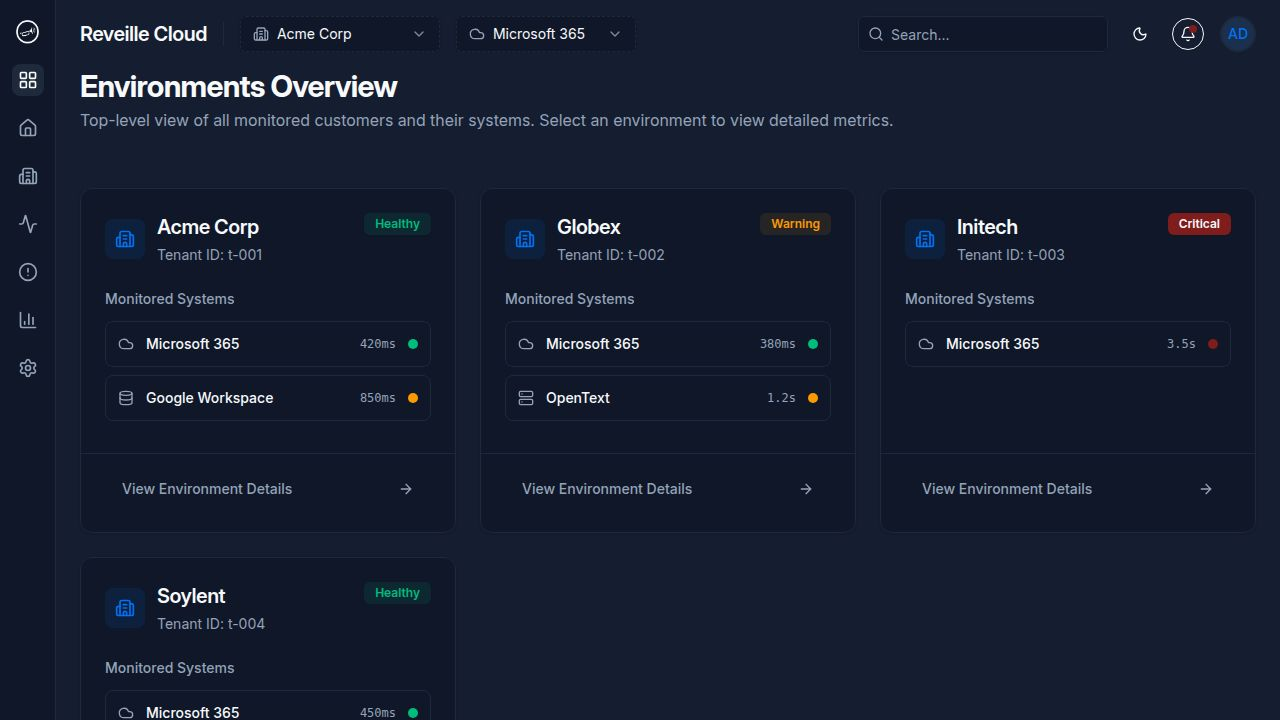
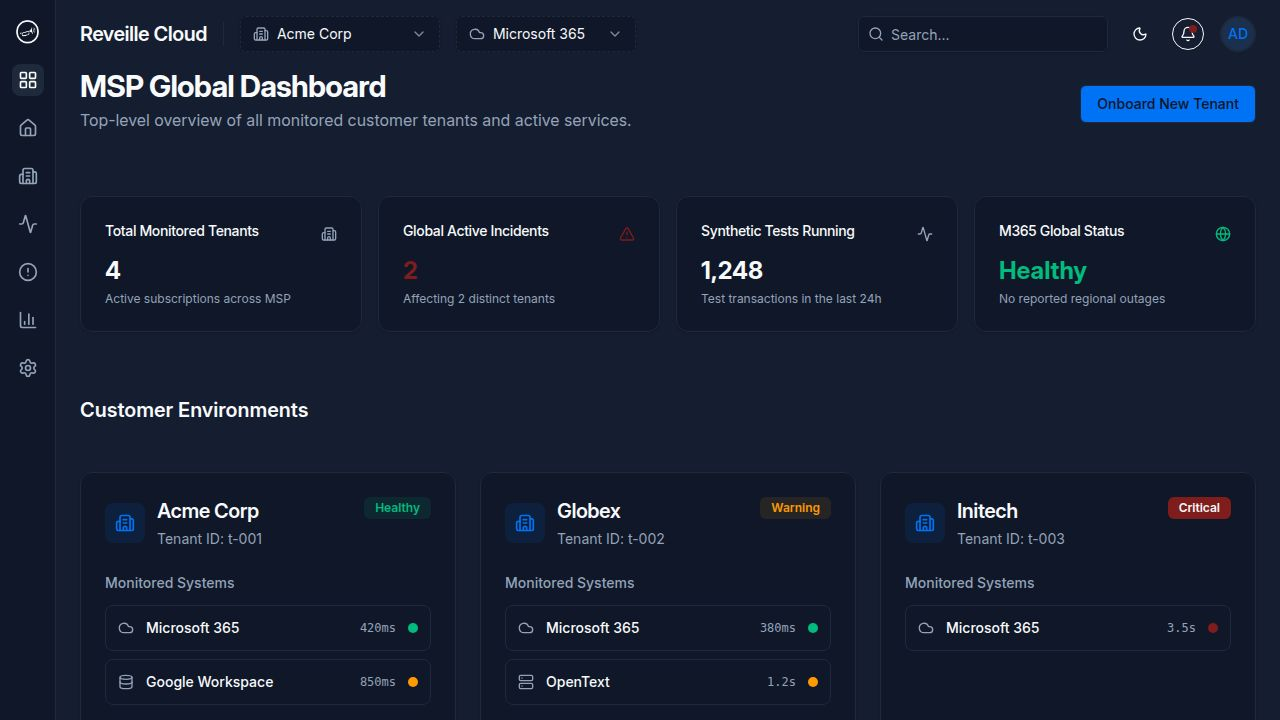
Create the MSP Global Dashboard with aggregated metrics and tenant onboarding
Updates the root page (`/`) to serve as the MSP Global Dashboard. Adds aggregated hero metrics (Total Monitored Tenants, Global Active Incidents, Synthetic Tests Running, M365 Global Status) using Card components and Lucide icons. Includes an "Onboard New Tenant" button linking to `/onboarding`. Refactors the display of individual customer environments below the global metrics.

Replit-Commit-Author: Agent
Replit-Commit-Session-Id: d369ee71-4fa6-4553-b1ac-325e3540190d
Replit-Commit-Checkpoint-Type: full_checkpoint
Replit-Commit-Event-Id: abb60896-376e-497a-a599-a465c298b286
Replit-Commit-Screenshot-Url: https://storage.googleapis.com/screenshot-production-us-central1/a0f16eec-578b-48d3-9621-63b44943948e/d369ee71-4fa6-4553-b1ac-325e3540190d/CT6PmTm
Replit-Helium-Checkpoint-Created: true

diff --git a/client/src/pages/Environments.tsx b/client/src/pages/Environments.tsx
@@ -2,7 +2,7 @@ import { Shell } from "@/components/layout/Shell";
 import { Card, CardContent, CardDescription, CardHeader, CardTitle, CardFooter } from "@/components/ui/card";
 import { Badge } from "@/components/ui/badge";
 import { Button } from "@/components/ui/button";
-import { Building2, Cloud, Server, Database, ArrowRight } from "lucide-react";
+import { Building2, Cloud, Server, Database, ArrowRight, Activity, AlertTriangle, Globe } from "lucide-react";
 import { Link } from "wouter";
 
 const environments = [
@@ -49,13 +49,70 @@ export default function Environments() {
     <Shell>
       <div className="flex items-center justify-between space-y-2 mb-6">
         <div>
-          <h2 className="text-3xl font-bold tracking-tight">Environments Overview</h2>
+          <h2 className="text-3xl font-bold tracking-tight">MSP Global Dashboard</h2>
           <p className="text-muted-foreground mt-1">
-            Top-level view of all monitored customers and their systems. Select an environment to view detailed metrics.
+            Top-level overview of all monitored customer tenants and active services.
           </p>
+        </div>
+        <div className="flex items-center space-x-2">
+          <Link href="/onboarding">
+            <Button>Onboard New Tenant</Button>
+          </Link>
         </div>
       </div>
 
+      <div className="grid gap-4 md:grid-cols-2 lg:grid-cols-4 mb-8">
+        <Card>
+          <CardHeader className="flex flex-row items-center justify-between pb-2">
+            <CardTitle className="text-sm font-medium">Total Monitored Tenants</CardTitle>
+            <Building2 className="h-4 w-4 text-muted-foreground" />
+          </CardHeader>
+          <CardContent>
+            <div className="text-2xl font-bold">4</div>
+            <p className="text-xs text-muted-foreground mt-1">
+              Active subscriptions across MSP
+            </p>
+          </CardContent>
+        </Card>
+        <Card>
+          <CardHeader className="flex flex-row items-center justify-between pb-2">
+            <CardTitle className="text-sm font-medium">Global Active Incidents</CardTitle>
+            <AlertTriangle className="h-4 w-4 text-destructive" />
+          </CardHeader>
+          <CardContent>
+            <div className="text-2xl font-bold text-destructive">2</div>
+            <p className="text-xs text-muted-foreground mt-1">
+              Affecting 2 distinct tenants
+            </p>
+          </CardContent>
+        </Card>
+        <Card>
+          <CardHeader className="flex flex-row items-center justify-between pb-2">
+            <CardTitle className="text-sm font-medium">Synthetic Tests Running</CardTitle>
+            <Activity className="h-4 w-4 text-muted-foreground" />
+          </CardHeader>
+          <CardContent>
+            <div className="text-2xl font-bold">1,248</div>
+            <p className="text-xs text-muted-foreground mt-1">
+              Test transactions in the last 24h
+            </p>
+          </CardContent>
+        </Card>
+        <Card>
+          <CardHeader className="flex flex-row items-center justify-between pb-2">
+            <CardTitle className="text-sm font-medium">M365 Global Status</CardTitle>
+            <Globe className="h-4 w-4 text-emerald-500" />
+          </CardHeader>
+          <CardContent>
+            <div className="text-2xl font-bold text-emerald-500">Healthy</div>
+            <p className="text-xs text-muted-foreground mt-1">
+              No reported regional outages
+            </p>
+          </CardContent>
+        </Card>
+      </div>
+
+      <h3 className="text-xl font-semibold mb-4">Customer Environments</h3>
       <div className="grid gap-6 md:grid-cols-2 xl:grid-cols-3">
         {environments.map((env) => (
           <Card key={env.id} className="flex flex-col hover:border-primary/50 transition-all shadow-sm">
